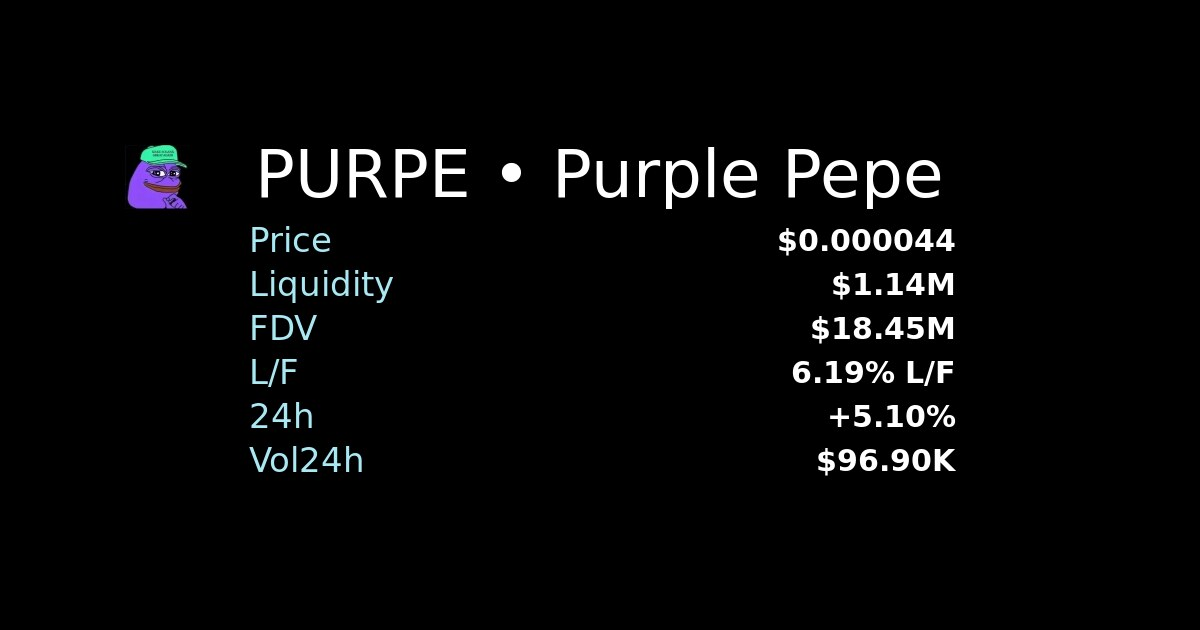
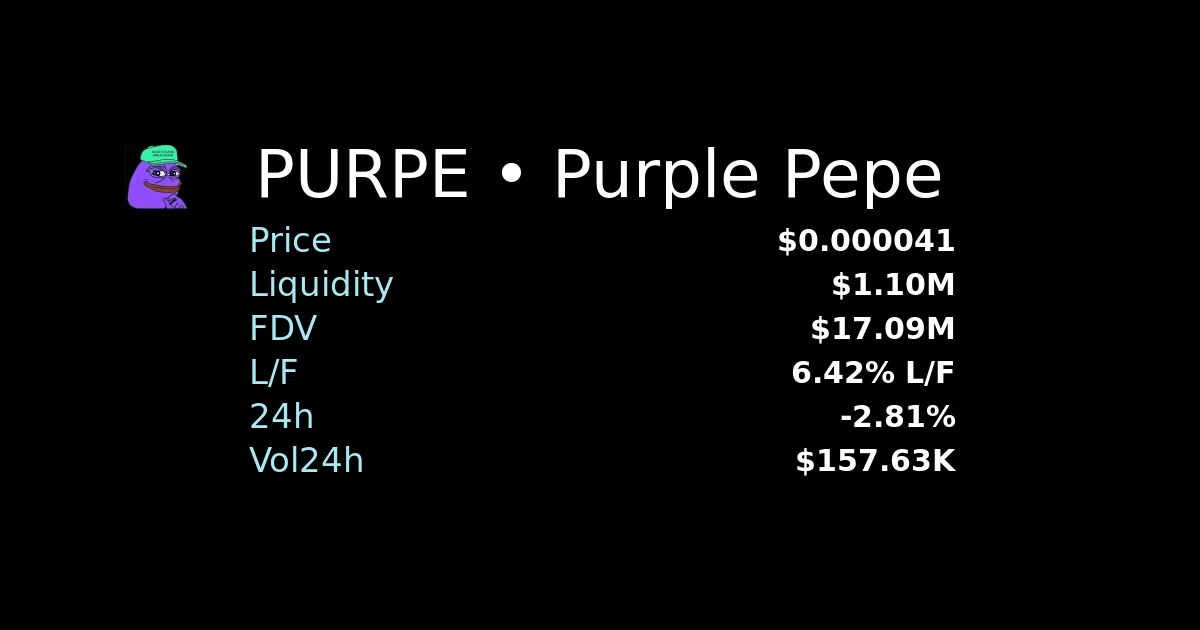
chore: update sitemap & token pages

diff --git a/token/HBoNJ5v8g71s2boRivrHnfSB5MVPLDHHyVjruPfhGkvL/index.html b/token/HBoNJ5v8g71s2boRivrHnfSB5MVPLDHHyVjruPfhGkvL/index.html
@@ -4,14 +4,14 @@
     <meta charset="utf-8" />
     <meta name="viewport" content="width=device-width,initial-scale=1" />
     <title>PURPE on Solana</title>
-    <meta name="description" content="Purple Pepe • Price: $0.000044 • Liquidity: $1.14M" />
+    <meta name="description" content="Purple Pepe • Price: $0.000041 • Liquidity: $1.10M" />
     <meta name="author" content="builders-toronto" />
     <meta name="keywords" content="solana, memecoin, bonk, wif, dog, inu, pepe, cat, meme, ponk, samo, purry, purr, kitty, meow, woof, frog, snek, toad, bob, dino, monke, monkey, ape, corgi, floki, elon" />
 
     <!-- OG -->
     <meta property="og:type" content="website" />
     <meta property="og:title" content="PURPE on Solana" />
-    <meta property="og:description" content="Purple Pepe • Price: $0.000044 • Liquidity: $1.14M" />
+    <meta property="og:description" content="Purple Pepe • Price: $0.000041 • Liquidity: $1.10M" />
     <meta property="og:url" content="https://fdv.lol/token/HBoNJ5v8g71s2boRivrHnfSB5MVPLDHHyVjruPfhGkvL" />
     <meta property="og:image" content="https://fdv.lol/token/HBoNJ5v8g71s2boRivrHnfSB5MVPLDHHyVjruPfhGkvL/og.jpg" />
     <meta property="og:image:width" content="1200" />
@@ -21,7 +21,7 @@
     <!-- Twitter -->
     <meta name="twitter:card" content="summary_large_image" />
     <meta name="twitter:title" content="PURPE on Solana" />
-    <meta name="twitter:description" content="Purple Pepe • Price: $0.000044 • Liquidity: $1.14M" />
+    <meta name="twitter:description" content="Purple Pepe • Price: $0.000041 • Liquidity: $1.10M" />
     <meta name="twitter:image" content="https://fdv.lol/token/HBoNJ5v8g71s2boRivrHnfSB5MVPLDHHyVjruPfhGkvL/og.jpg" />
 
     <link rel="icon" type="image/png" href="/src/assets/images/icons/fdv.lol.ico" />
@@ -35,7 +35,7 @@
       "@type": "WebSite",
       "name": "PURPE on Solana",
       "url": "https://fdv.lol/token/HBoNJ5v8g71s2boRivrHnfSB5MVPLDHHyVjruPfhGkvL",
-      "description": "Purple Pepe • Price: $0.000044 • Liquidity: $1.14M",
+      "description": "Purple Pepe • Price: $0.000041 • Liquidity: $1.10M",
       "keywords": [
         "solana",
         "memecoin",
